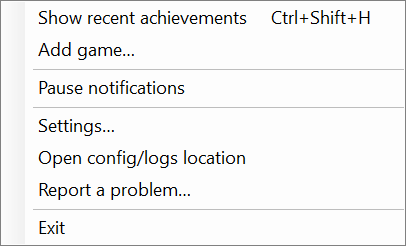
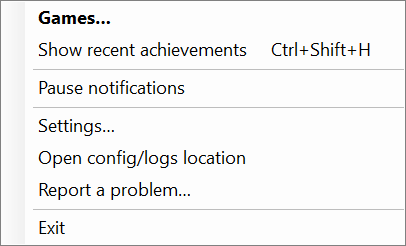
docs: point the docs at the Games window

diff --git a/docs/index.md b/docs/index.md
@@ -16,6 +16,7 @@ A Windows background app that sits in the system tray. The emulator records ever
 - **Adjustable popup** — set its position, width, background colour, opacity and font, with a **Show me** preview. Text colours are worked out from the background you pick, so a light popup flips to dark text rather than becoming unreadable
 - **Recent achievements** — press Ctrl+Shift+H to review the last few unlocks, and to check the overlay is alive
 - **Add game wizard** — generates a game's achievement metadata from the Steam Web API, filling in hidden descriptions from SteamDB
+- **Games window** — every game the app knows of, with its emulator, achievement count and setup problems, plus one-click set-up and revert
 - **Automatic game detection** — scans the folders you name for games carrying achievement metadata
 - **Other emulators** — a game whose unlock file carries its own achievement names is tracked with no configuration at all, and CODEX and RUNE games are read from the emulator's own `achievements.ini`
 - **Setup confirmation** — a one-time "Gearhead" popup confirms tracking works before the first real unlock
@@ -29,7 +30,7 @@ A Windows background app that sits in the system tray. The emulator records ever
 ## Next steps
 
 - **[Installation](pages/installation)** — download a release, or build it yourself
-- **[Usage](pages/usage)** — the tray menu, the settings window, adding a game, and what other emulators need
+- **[Usage](pages/usage)** — the tray menu, the settings window, the Games window, adding a game, and what other emulators need
 - **[Troubleshooting](pages/troubleshooting)** — reading the log when nothing appears
 - **[Developer guide](pages/development)** — building from source, project layout, and how the emulator stores achievements
 - **[Privacy](pages/privacy)** — what leaves your machine, and when

diff --git a/CLAUDE.md b/CLAUDE.md
@@ -295,10 +295,10 @@ brushes, the icon, the work-area clamp). A second window carrying its own copy o
 copy that drifts: a shade corrected in one dialog would leave the other wrong with nothing to say why.
 
 **Unconfigured games are listed on request.** A save folder with no cache entry and no self-describing
-unlock file — typically a CODEX/RUNE game never put through Add game — is a `DiagnosticGameChoice`
-with `Unconfigured` set, hidden until **Include unconfigured games (\*)** is ticked, then listed after
-every configured game with a `*`. Its store name, when looked up, names it in the list, in the saved
-report's `game.name` and in the suggested file name; the report still has no settings folders, schema
+unlock file — typically a CODEX/RUNE game never put through Add game — is a `GameChoice` (the same
+list the Games window shows) with `Unconfigured` set, hidden until **Include unconfigured games
+(\*)** is ticked, then listed after every configured game with a `*`. Its store name, when looked up,
+names it in the list, in the saved report's `game.name` and in the suggested file name; the report still has no settings folders, schema
 or stats for it. With no game listed, every part's pane holds a hint instead (games hidden behind the box, or
 none found), and Copy and Save are off.
 

diff --git a/README.md b/README.md
@@ -14,6 +14,7 @@ A Windows background app that sits in the system tray. The emulator records ever
 - **Adjustable popup** — set its position, width, background colour, opacity and font, with a **Show me** preview. Text colours are worked out from the background you pick, so a light popup flips to dark text rather than becoming unreadable
 - **Recent achievements** — press Ctrl+Shift+H to review the last few unlocks, and to check the overlay is alive
 - **Add game wizard** — generates a game's achievement metadata from the Steam Web API, filling in hidden descriptions from SteamDB
+- **Games window** — every game the app knows of, with its emulator, achievement count and setup problems, plus one-click set-up and revert
 - **Automatic game detection** — scans the folders you name for games carrying achievement metadata
 - **Other emulators** — a game whose unlock file carries its own achievement names is tracked with no configuration at all, and CODEX and RUNE games are read from the emulator's own `achievements.ini`
 - **Setup confirmation** — a one-time "Gearhead" popup confirms tracking works before the first real unlock

diff --git a/docs/pages/installation.md b/docs/pages/installation.md
@@ -19,7 +19,7 @@ Grab the latest build from [GitHub Releases](https://github.com/AnotherSava/achi
 
 After extracting, open `config.json` next to the executable and check `gamesPaths` — it should list the folders your games are installed in. Every other value has a working default; the full list is on the [Configuration](usage/configuration) page.
 
-Run the exe and the app appears in the system tray. There is no main window: everything happens through the [tray menu](usage/tray-menu).
+Run the exe and the app appears in the system tray. Everything happens through the [tray menu](usage/tray-menu); a left click on the icon opens the [Games](usage/games) window.
 
 ## SmartScreen and code signing
 

diff --git a/docs/pages/usage.md b/docs/pages/usage.md
@@ -7,7 +7,7 @@ has_children: true
 
 # Usage
 
-The app has no main window. It starts minimised to the system tray, watches for unlocks in the background, and shows a popup when one arrives. Everything you can change lives behind the [tray menu](usage/tray-menu).
+The app has no main window. It starts minimised to the system tray, watches for unlocks in the background, and shows a popup when one arrives. Everything you can change lives behind the [tray menu](usage/tray-menu), and a left click on the icon opens the [Games](usage/games) window, which lists every game and is where you add or revert one.
 
 ## How it works
 

diff --git a/docs/pages/development.md b/docs/pages/development.md
@@ -71,6 +71,8 @@ src/
   RecentAchievementsDisplay.cs  the panel behind the global shortcut
   SettingsWindow.xaml         the four-page settings window
   SettingsDiff.cs             what the window changed, keyed by property name
+  GamesWindow.xaml            the Games window: every game, with Add game, Set up and Revert
+  GameList.cs                 what each Games window row shows, and the setup checks behind its icon
   AddGameForm.cs              the Add game wizard
   GbeConfig/                  the config generator engine behind the wizard
   GbeOverlay/                 reading a game's own configs.overlay.ini
